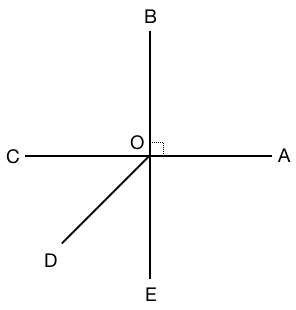
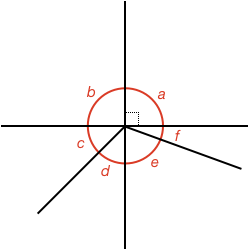
update quiz and snapshots

diff --git a/src/Lessons/Math/Geometry_1/AdjacentAngles/quiz/base/content.js b/src/Lessons/Math/Geometry_1/AdjacentAngles/quiz/base/content.js
@@ -67,9 +67,9 @@ class Content extends SimpleLessonContent {
 
       variables.q1_angles = anglesText;
       variables.q1_angle_num = numAngles;
-      const expText = angleType === 'explementary' ? '+ explementary' : '- explementary';
-      const suppText = angleType === 'supplementary' ? '+ supplementary' : '- supplementary';
-      const compText = angleType === 'complementary' ? '+ complementary' : '- complementary';
+      const expText = angleType === 'explementary' ? '+ explementary' : '- Explementary';
+      const suppText = angleType === 'supplementary' ? '+ supplementary' : '- Supplementary';
+      const compText = angleType === 'complementary' ? '+ complementary' : '- Complementary';
       const otherText = angleType === 'other' ? '+ None of the above' : '- None of the above';
       const answers = shuffle([
         expText, suppText, compText,
@@ -81,21 +81,20 @@ class Content extends SimpleLessonContent {
       const no = () => ['- Yes', '+ No'];
 
       const q2Options = [
-        ['AOB and BOC supplementary', yes()],
-        ['AOB and BOC complementary', no()],
-        ['AOB and BOC explementary', no()],
-        ['BOC, COD, and DOE supplementary', yes()],
-        ['BOC, COD, and DOA supplementary', no()],
-        ['BOC, COD, and DOA explementary', yes()],
-        ['COD and AOB supplementary', no()],
-        ['COD and AOB explementary', no()],
-        ['COD and AOB complementary', no()],
-        ['COD, DOE, and EOA supplementary', yes()],
-        ['COD, DOE, and EOA complementary', no()],
-        ['COD, DOE, and EOA explementary', no()],
-        ['COD and DOE complementary', yes()],
-        ['COD and DOE explementary', no()],
-        ['COD and DOE supplementary', no()],
+        ['a and b supplementary', yes()],
+        ['a and b complementary', no()],
+        ['a and b explementary', no()],
+        ['b, c, and d supplementary', yes()],
+        ['b, c, and d complementary', no()],
+        ['d, e and f supplementary', no()],
+        ['c, d and e explementary', no()],
+        ['a, b and c complementary', no()],
+        ['c and d complementary', yes()],
+        ['e and f complementary', yes()],
+        ['d and e complementary', no()],
+        ['e, f, and a supplementary', yes()],
+        ['e, f, and a explementary', no()],
+        ['a, b, c, d, e and f explementary', yes()],
       ];
 
       const q2Answer = removeRandElement(q2Options);
@@ -128,6 +127,8 @@ class Content extends SimpleLessonContent {
       variables.q8_B = randInt(20, 40);
       variables.q8_C = 90 - variables.q8_A - variables.q8_B;
 
+      variables.q9_a = randInt(120, 95);
+      variables.q9_b = variables.q9_a;
       return variables;
     };
   }

diff --git a/src/Lessons/index.js b/src/Lessons/index.js
@@ -5,6 +5,16 @@ export default function lessonIndex() {
       path: '/Lessons/Math/Geometry_1',
       uid: 'AdjacentAngles',
       topics: {
+        examples: {
+          base: {
+            type: 'singlePage',
+            title: 'Example problems with complementary, supplementary and explementary angles',
+            description: '',
+            htmlTitle: 'Example problems with complementary angles, supplementary angles and explementary angles',
+            htmlDescription: 'Identify and calculate complementary, supplementary and explementary angles',
+            fullLesson: true,
+          },
+        },
         explanation: {
           base: {
             type: 'presentation',
@@ -28,10 +38,10 @@ export default function lessonIndex() {
         quiz: {
           base: {
             type: 'singlePage',
-            title: 'Identify Angles',
-            description: 'Identify which angles are complementary, supplementary and explementary',
+            title: 'Complementary, Supplementary and Explementary Angles',
+            description: 'Questions to identify and calculate complementary, supplementary and explementary angles',
             htmlTitle: 'Complementary, Supplementary and Explementary angles quiz',
-            htmlDescription: 'Identify which angles are complementary, supplementary and explementary',
+            htmlDescription: 'Identify and calculate angles that are complementary, supplementary and explementary',
             fullLesson: true,
           },
         },

diff --git a/src/Lessons/Math/Geometry_1/AdjacentAngles/examples/base/content.js b/src/Lessons/Math/Geometry_1/AdjacentAngles/examples/base/content.js
@@ -1,0 +1,30 @@
+// @flow
+// import Fig from 'figureone';
+import * as React from 'react';
+import SimpleLessonContent from '../../../../../../js/Lesson/SimpleLessonContent';
+// import imgLink from '../../tile.png';
+// import imgLinkGrey from '../../tile-grey.png';
+import details from '../../details';
+// $FlowFixMe
+import content from './content.md';
+
+class Content extends SimpleLessonContent {
+  setTitle() {
+    this.title = details.title;
+    // this.iconLink = imgLink;
+    // this.iconLinkGrey = imgLinkGrey;
+    this.loadQRs([
+      // 'Math/Geometry_1/Triangles/base',
+    ]);
+  }
+
+  setContent() {
+    this.sections = [
+      <div key={0}>
+      <div className="markdown" dangerouslySetInnerHTML={ { __html: content } }/>
+      </div>,
+    ];
+  }
+}
+
+export default Content;

diff --git a/src/Lessons/Math/Geometry_1/AdjacentAngles/quiz/base/version.js b/src/Lessons/Math/Geometry_1/AdjacentAngles/quiz/base/version.js
@@ -4,10 +4,10 @@
 var version = {
   uid: 'base',
   topic: 'quiz',
-  title: 'Identify Angles',
-  description: 'Identify which angles are complementary, supplementary and explementary',
+  title: 'Complementary, Supplementary and Explementary Angles',
+  description: 'Questions to identify and calculate complementary, supplementary and explementary angles',
   htmlTitle: 'Complementary, Supplementary and Explementary angles quiz',
-  htmlDescription: 'Identify which angles are complementary, supplementary and explementary',
+  htmlDescription: 'Identify and calculate angles that are complementary, supplementary and explementary',
   fullLesson: true,
   type: 'singlePage',
 };

diff --git a/src/Lessons/Math/Geometry_1/AdjacentAngles/examples/base/version.js b/src/Lessons/Math/Geometry_1/AdjacentAngles/examples/base/version.js
@@ -1,0 +1,15 @@
+// @flow
+
+// eslint-disable-next-line no-var
+var version = {
+  uid: 'base',
+  topic: 'examples',
+  title: 'Example problems with complementary, supplementary and explementary angles',
+  description: '',
+  htmlTitle: 'Example problems with complementary angles, supplementary angles and explementary angles',
+  htmlDescription: 'Identify and calculate complementary, supplementary and explementary angles',
+  fullLesson: true,
+  type: 'singlePage',
+};
+
+module.exports = version;

diff --git a/src/Lessons/Math/Geometry_1/AdjacentAngles/examples/base/lesson.js b/src/Lessons/Math/Geometry_1/AdjacentAngles/examples/base/lesson.js
@@ -1,0 +1,10 @@
+// // @flow
+
+import renderLesson from '../../../../../../js/views/lesson/lesson';
+import SimpleLesson from '../../../../../../js/Lesson/SimpleLesson';
+import Content from './content';
+import '../../../../../../css/simpleLesson.scss';
+import './style.scss';
+
+const lesson = new SimpleLesson(new Content());
+renderLesson(lesson);

diff --git a/src/Lessons/Math/Geometry_1/AdjacentAngles/examples/base/tests/full.btest.js b/src/Lessons/Math/Geometry_1/AdjacentAngles/examples/base/tests/full.btest.js
@@ -1,0 +1,10 @@
+/* eslint-disable import/no-extraneous-dependencies */
+import 'babel-polyfill';
+import tester from '../../../../../../testers/singlePageTester';
+
+tester(
+  { width: 700 },
+  { width: 700, height: 450, includeQRs: true },
+  { width: 300, threshold: 0.00001 },
+  { width: 300, height: 450, includeQRs: true },
+);

diff --git a/src/Lessons/Math/Geometry_1/AdjacentAngles/examples/base/tests/stage.btest.js b/src/Lessons/Math/Geometry_1/AdjacentAngles/examples/base/tests/stage.btest.js
@@ -1,0 +1,10 @@
+/* eslint-disable import/no-extraneous-dependencies */
+import 'babel-polyfill';
+import tester from '../../../../../../testers/singlePageTester';
+
+tester(
+  { width: 700 },
+  { width: 700, height: 450, includeQRs: true },
+  { width: 300, threshold: 0.00001 },
+  { width: 300, height: 450, includeQRs: true },
+);

diff --git a/src/Lessons/Math/Geometry_1/AdjacentAngles/examples/base/style.scss b/src/Lessons/Math/Geometry_1/AdjacentAngles/examples/base/style.scss
@@ -1,0 +1,13 @@
+// @import '../../../geometry';
+
+// .simple_lesson__container {
+//   padding: 20px;
+//   margin-left: 20px;
+//   margin-right: 20px;
+//   background-color: color('white', 'lightest');
+//   color: color('grey', 'darkest');
+// }
+
+// .simple_lesson__container img {
+//   max-width: 100%;
+// }

diff --git a/src/Lessons/Math/Geometry_1/AdjacentAngles/examples/base/tests/prod.btest.js b/src/Lessons/Math/Geometry_1/AdjacentAngles/examples/base/tests/prod.btest.js
@@ -1,0 +1,7 @@
+/* eslint-disable import/no-extraneous-dependencies */
+import 'babel-polyfill';
+import tester from '../../../../../../testers/singlePageTester';
+
+tester(
+  { width: 700 },
+);

diff --git a/src/Lessons/Math/Geometry_1/AdjacentAngles/examples/base/content.md b/src/Lessons/Math/Geometry_1/AdjacentAngles/examples/base/content.md
@@ -1,0 +1,35 @@
+## Complementary, Supplementary and Explementary Angles
+
+### Example 1:
+
+#### What is size of angle $$\definecolor{r}{RGB}{238,34,12}\color{r}a$$ in degrees?
+
+![](supplementary.png)
+
+These angles are supplementary angles and add up to 180º. Therefore:
+
+$$\color{r}a \color{black}= 180^\circ - 50^\circ - 60^\circ = \bbox[10px,border:1px solid gray]{70^\circ}$$
+
+### Example 2:
+
+#### What is size of angle $$\definecolor{r}{RGB}{238,34,12}\color{r}a$$ in degrees?
+
+![](complementary.png)
+
+These angles are complementary angles and add up to 90. Therefore:
+
+$$\color{r}a \color{black}= 90^\circ - 30^\circ = \bbox[10px,border:1px solid gray]{60^\circ}$$
+
+### Example 3:
+
+#### Find angles $$\color{r}a$$ and $$\color{r}b$$ in the below diagram:
+
+![](combination.png)
+
+First we can see that angles $$\color{r}a$$ and $$\color{r}60^\circ$$ are complimentary angles. Therefore:
+
+$$\color{r}a \color{black}= 90^\circ - 60^\circ = \bbox[10px,border:1px solid gray]{30^\circ}$$
+
+Next we can see that all three angles are supplementary angles. Therefore:
+
+$$\color{r}b \color{black} = 180^\circ - 30^\circ - 60^\circ = \bbox[10px,border:1px solid gray]{90^\circ}$$

diff --git a/src/Lessons/Math/Geometry_1/AdjacentAngles/quiz/base/content.md b/src/Lessons/Math/Geometry_1/AdjacentAngles/quiz/base/content.md
@@ -60,3 +60,10 @@ If angles a and b are $|q8_A|$º and $|q8_B|$º respectively, what is the value 
 
 <quiz entryInteger>$|q8_C|$</quiz>
 
+### Question 9:
+
+![](opposite.png)
+
+If angle a is $|q9_a|$º, what is angle b?
+
+<quiz entryInteger>$|q9_b|$</quiz>
